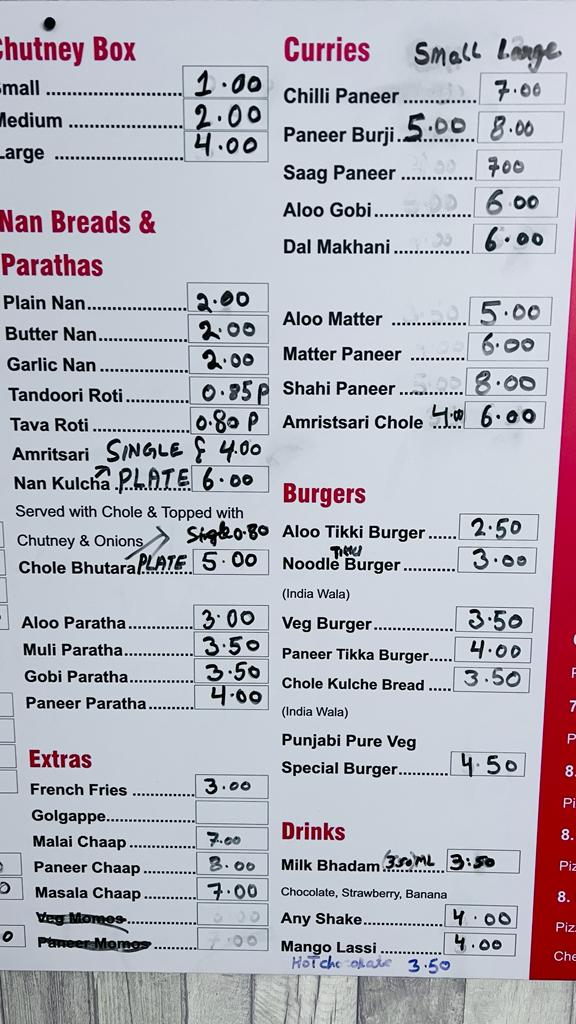
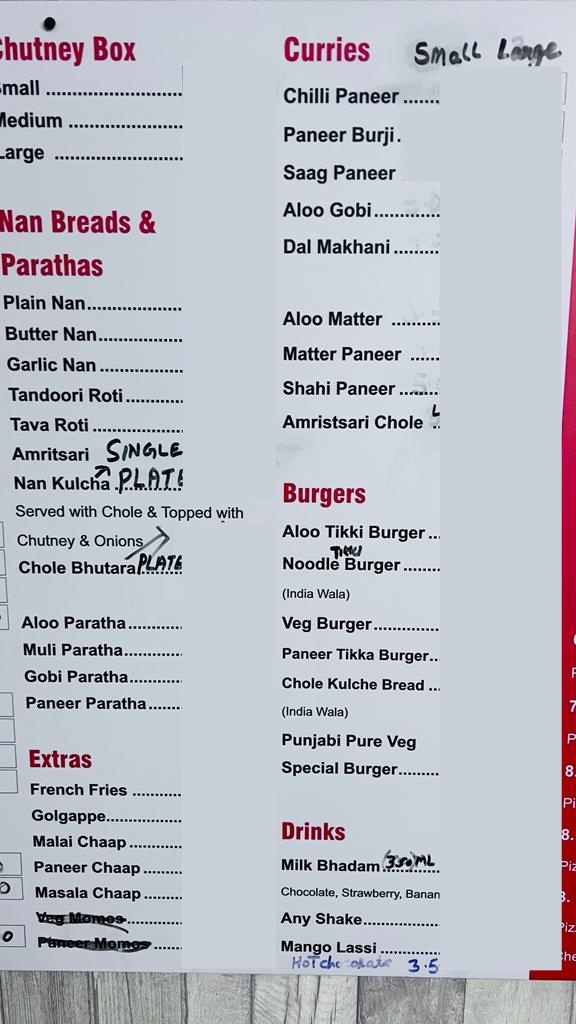
remove menu images

diff --git a/index.html b/index.html
@@ -19,9 +19,9 @@
     <!-- Venobox CSS -->
     <link rel="stylesheet" href="css/venobox.min.css" />
     <!-- Style CSS -->
-    <link rel="stylesheet" href="css/style.css" />
+    <link rel="stylesheet" href="css/style.css?v1" />
     <!-- Responsive CSS -->
-    <link rel="stylesheet" href="css/responsive.css" />
+    <link rel="stylesheet" href="css/responsive.css?v1" />
 </head>
 <body>
     <!-- Goto TOP -->
@@ -73,9 +73,160 @@
                     <div class="menu-head text-center">
                         <h2><span>Menu</span></h2>
                         <p><strong>Psss... <span>Khoya Barfi</span> and <span>Kalakand</span> also available now 🤤</strong></p>
-                        <a href="img/menu-1.jpeg" target="_blank"><img src="img/menu-1.jpeg" alt="Menu page 1"></a>
-                        <a href="img/menu-2.jpeg" target="_blank"><img src="img/menu-2.jpeg" alt="Menu page 2"></a>
-                        <a href="img/menu-3.jpeg" target="_blank"><img src="img/menu-3.jpeg" alt="Menu page 3"></a>
+                        <main class="menu-container">
+
+                            <!-- Chutney Box -->
+                            <div class="menu">
+                              <h2 class="menu-group-heading">Chutney Box</h2>
+                              <div class="menu-group">
+                                <div class="menu-item-text"><h3 class="menu-item-name">Small</h3></div>
+                                <div class="menu-item-text"><h3 class="menu-item-name">Medium</h3></div>
+                                <div class="menu-item-text"><h3 class="menu-item-name">Large</h3></div>
+                              </div>
+                            </div>
+                          
+                            <!-- Nan Breads & Parathas -->
+                            <div class="menu">
+                              <h2 class="menu-group-heading">Nan Breads & Parathas</h2>
+                              <div class="menu-group">
+                                <div class="menu-item-text"><h3 class="menu-item-name">Plain Nan</h3></div>
+                                <div class="menu-item-text"><h3 class="menu-item-name">Butter Nan</h3></div>
+                                <div class="menu-item-text"><h3 class="menu-item-name">Garlic Nan</h3></div>
+                                <div class="menu-item-text"><h3 class="menu-item-name">Tandoori Roti</h3></div>
+                                <div class="menu-item-text"><h3 class="menu-item-name">Tava Roti</h3></div>
+                                <div class="menu-item-text"><h3 class="menu-item-name">Amritsari Nan Kulcha (Single/Plate)</h3></div>
+                                <div class="menu-item-text"><h3 class="menu-item-name">Chole Bhutara (Plate)</h3></div>
+                                <div class="menu-item-text"><h3 class="menu-item-name">Aloo Paratha</h3></div>
+                                <div class="menu-item-text"><h3 class="menu-item-name">Muli Paratha</h3></div>
+                                <div class="menu-item-text"><h3 class="menu-item-name">Gobi Paratha</h3></div>
+                                <div class="menu-item-text"><h3 class="menu-item-name">Paneer Paratha</h3></div>
+                              </div>
+                            </div>
+                          
+                            <!-- Curries -->
+                            <div class="menu">
+                              <h2 class="menu-group-heading">Curries</h2>
+                              <div class="menu-group">
+                                <div class="menu-item-text"><h3 class="menu-item-name">Chilli Paneer</h3></div>
+                                <div class="menu-item-text"><h3 class="menu-item-name">Paneer Burji</h3></div>
+                                <div class="menu-item-text"><h3 class="menu-item-name">Saag Paneer</h3></div>
+                                <div class="menu-item-text"><h3 class="menu-item-name">Aloo Gobi</h3></div>
+                                <div class="menu-item-text"><h3 class="menu-item-name">Dal Makhani</h3></div>
+                                <div class="menu-item-text"><h3 class="menu-item-name">Aloo Matter</h3></div>
+                                <div class="menu-item-text"><h3 class="menu-item-name">Matter Paneer</h3></div>
+                                <div class="menu-item-text"><h3 class="menu-item-name">Shahi Paneer</h3></div>
+                                <div class="menu-item-text"><h3 class="menu-item-name">Amritsari Chole</h3></div>
+                              </div>
+                            </div>
+                          
+                            <!-- Burgers -->
+                            <div class="menu">
+                              <h2 class="menu-group-heading">Burgers</h2>
+                              <div class="menu-group">
+                                <div class="menu-item-text"><h3 class="menu-item-name">Aloo Tikki Burger</h3></div>
+                                <div class="menu-item-text"><h3 class="menu-item-name">Noodle Burger (India Wala)</h3></div>
+                                <div class="menu-item-text"><h3 class="menu-item-name">Veg Burger</h3></div>
+                                <div class="menu-item-text"><h3 class="menu-item-name">Paneer Tikka Burger</h3></div>
+                                <div class="menu-item-text"><h3 class="menu-item-name">Chole Kulche Bread (India Wala)</h3></div>
+                                <div class="menu-item-text"><h3 class="menu-item-name">Punjabi Pure Veg</h3></div>
+                                <div class="menu-item-text"><h3 class="menu-item-name">Special Burger</h3></div>
+                              </div>
+                            </div>
+                          
+                            <!-- Extras -->
+                            <div class="menu">
+                              <h2 class="menu-group-heading">Extras</h2>
+                              <div class="menu-group">
+                                <div class="menu-item-text"><h3 class="menu-item-name">French Fries</h3></div>
+                                <div class="menu-item-text"><h3 class="menu-item-name">Golgappe</h3></div>
+                                <div class="menu-item-text"><h3 class="menu-item-name">Malai Chaap</h3></div>
+                                <div class="menu-item-text"><h3 class="menu-item-name">Paneer Chaap</h3></div>
+                                <div class="menu-item-text"><h3 class="menu-item-name">Masala Chaap</h3></div>
+                              </div>
+                            </div>
+                          
+                            <!-- Drinks -->
+                            <div class="menu">
+                              <h2 class="menu-group-heading">Drinks</h2>
+                              <div class="menu-group">
+                                <div class="menu-item-text"><h3 class="menu-item-name">Milk Bhadam (330ml)</h3></div>
+                                <div class="menu-item-text"><h3 class="menu-item-name">Chocolate, Strawberry, Banana Shake</h3></div>
+                                <div class="menu-item-text"><h3 class="menu-item-name">Any Shake</h3></div>
+                                <div class="menu-item-text"><h3 class="menu-item-name">Mango Lassi (Hot/Cold)</h3></div>
+                              </div>
+                            </div>
+                          
+                            <!-- Sweets -->
+                            <div class="menu">
+                              <h2 class="menu-group-heading">Sweets</h2>
+                              <div class="menu-group">
+                                <div class="menu-item-text"><h3 class="menu-item-name">Rasgulla</h3></div>
+                                <div class="menu-item-text"><h3 class="menu-item-name">Gulab Jamun</h3></div>
+                                <div class="menu-item-text"><h3 class="menu-item-name">Besan Laddu</h3></div>
+                                <div class="menu-item-text"><h3 class="menu-item-name">Motichoor Laddu</h3></div>
+                                <div class="menu-item-text"><h3 class="menu-item-name">Besan</h3></div>
+                                <div class="menu-item-text"><h3 class="menu-item-name">Barfi</h3></div>
+                                <div class="menu-item-text"><h3 class="menu-item-name">Khoya Barfi</h3></div>
+                                <div class="menu-item-text"><h3 class="menu-item-name">Gajrela Barfi</h3></div>
+                                <div class="menu-item-text"><h3 class="menu-item-name">Khoya Peda</h3></div>
+                                <div class="menu-item-text"><h3 class="menu-item-name">Milk Cake</h3></div>
+                                <div class="menu-item-text"><h3 class="menu-item-name">Jalebi</h3></div>
+                              </div>
+                            </div>
+                          
+                            <!-- Samosas & Spring Rolls -->
+                            <div class="menu">
+                              <h2 class="menu-group-heading">Samosas & Spring Rolls</h2>
+                              <div class="menu-group">
+                                <div class="menu-item-text"><h3 class="menu-item-name">Samosa</h3></div>
+                                <div class="menu-item-text"><h3 class="menu-item-name">50 Samosas</h3></div>
+                                <div class="menu-item-text"><h3 class="menu-item-name">100 Samosas</h3></div>
+                                <div class="menu-item-text"><h3 class="menu-item-name">Spring Roll</h3></div>
+                              </div>
+                            </div>
+                          
+                            <!-- Pakoras -->
+                            <div class="menu">
+                              <h2 class="menu-group-heading">Pakoras</h2>
+                              <div class="menu-group">
+                                <div class="menu-item-text"><h3 class="menu-item-name">Paneer Pakora</h3></div>
+                                <div class="menu-item-text"><h3 class="menu-item-name">Mix Pakora</h3></div>
+                                <div class="menu-item-text"><h3 class="menu-item-name">Bread Pakora</h3></div>
+                                <div class="menu-item-text"><h3 class="menu-item-name">Gobi Pakora</h3></div>
+                              </div>
+                            </div>
+                          
+                            <!-- Chaat -->
+                            <div class="menu">
+                              <h2 class="menu-group-heading">Chaat</h2>
+                              <div class="menu-group">
+                                <div class="menu-item-text"><h3 class="menu-item-name">Samosa Chaat</h3></div>
+                                <div class="menu-item-text"><h3 class="menu-item-name">Tikki Chaat</h3></div>
+                                <div class="menu-item-text"><h3 class="menu-item-name">Punjabi Veg</h3></div>
+                                <div class="menu-item-text"><h3 class="menu-item-name">Special Chaat</h3></div>
+                              </div>
+                            </div>
+                          
+                            <!-- Pizzas -->
+                            <div class="menu">
+                              <h2 class="menu-group-heading">Fresh Veg Pizzas (Sat & Sun Only)</h2>
+                              <div class="menu-group">
+                                <div class="menu-item-text"><h3 class="menu-item-name">Veg Tomato Pizza</h3></div>
+                                <div class="menu-item-text"><h3 class="menu-item-name">Corn Delight</h3></div>
+                                <div class="menu-item-text"><h3 class="menu-item-name">Cheese Lover</h3></div>
+                                <div class="menu-item-text"><h3 class="menu-item-name">Pure Veg Hot Shot</h3></div>
+                                <div class="menu-item-text"><h3 class="menu-item-name">Mexican Veggie</h3></div>
+                                <div class="menu-item-text"><h3 class="menu-item-name">Veggie Paneer Tikka</h3></div>
+                                <div class="menu-item-text"><h3 class="menu-item-name">Margherita</h3></div>
+                                <div class="menu-item-text"><h3 class="menu-item-name">Veg Classic</h3></div>
+                                <div class="menu-item-text"><h3 class="menu-item-name">Shahi Paneer Pizza</h3></div>
+                                <div class="menu-item-text"><h3 class="menu-item-name">Paneer Keema Pizza</h3></div>
+                              </div>
+                            </div>
+                          
+                          </main>
+                          
+                                                                        
                     </div>
                 </div>
             </div>

diff --git a/css/style.css b/css/style.css
@@ -576,13 +576,13 @@ button:hover {
 .menu-head {
     padding: 0px 250px;
 }
-.menu-head h2 {
+.menu-head > h2 {
     color: #0a0626;
     font-size: 50px;
     font-weight: 700;
     padding-bottom: 1.5rem;
 }
-.menu-head h2 span {
+.menu-head > h2 span {
     background: #ff712a;
     padding: 0 1rem;
     color: white;
@@ -593,7 +593,7 @@ button:hover {
     margin-bottom: 1rem;
 }
 
-.menu-head p {
+.menu-head > p {
     font-size: 1rem;
     color: #494442;
     line-height: 1.6;
@@ -2224,3 +2224,96 @@ button:hover {
             opacity: 0.35;
         }
     }
+
+  /* Container holds all menu sections */
+.menu-container {
+    display: grid;
+    grid-template-columns: repeat(auto-fit, minmax(300px, 1fr));
+    gap: 2rem;
+    padding: 2rem;
+    max-width: 1200px;
+    margin: auto;
+    font-family: 'Segoe UI', Tahoma, Geneva, Verdana, sans-serif;
+  }
+  
+  /* Individual Menu Section (category) */
+  .menu {
+    background: #ff702a;
+    color: white;
+    padding: 1.25rem;
+    border-radius: 10px;
+    box-shadow: 0 4px 12px rgba(0, 0, 0, 0.1);
+  }
+  
+  /* Category Title */
+  .menu-group-heading {
+    font-size: 1.5rem;
+    margin-bottom: 1rem !important;
+    border-bottom: 2px solid #ffffff44;
+    padding-bottom: 0.3rem;
+  }
+
+  .menu-item-name {
+    font-size: 1.2rem;
+  }
+  
+  /* Menu items inside each category */
+  .menu-group {
+    display: flex;
+    flex-direction: column;
+    gap: 10px;
+  }
+  
+  /* Individual menu item */
+  .menu-item {
+    padding: 0.5rem 0;
+  }
+  
+  /* Menu item text */
+  .menu-item-text {
+    display: flex;
+    flex-direction: column;
+  }
+  
+  /* Item title */
+  .menu-item-heading {
+    font-size: 0.95rem;
+    font-weight: 600;
+    margin-bottom: 0.25rem;
+  }
+  
+  /* Optional hidden price */
+  .menu-item-price {
+    display: none;
+  }
+  
+  /* Description text */
+  .menu-item-desc {
+    font-size: 0.85rem;
+    color: white;
+  }
+  
+  /* Responsive tweaks */
+  @media (max-width: 600px) {
+    .container {
+      grid-template-columns: 1fr;
+      padding: 1rem;
+    }
+  
+    .menu {
+      padding: 1rem;
+    }
+  
+    .menu-group-heading {
+      font-size: 1rem;
+    }
+  
+    .menu-item-heading {
+      font-size: 0.9rem;
+    }
+  
+    .menu-item-desc {
+      font-size: 0.8rem;
+    }
+  }
+  

diff --git a/css/responsive.css b/css/responsive.css
@@ -145,7 +145,7 @@
     .menu-head {
         padding: 0px 10px;
     }
-    .menu-head h2 {
+    .menu-head > h2 {
         font-size: 38px;
         width: 400px;
         margin: auto;
